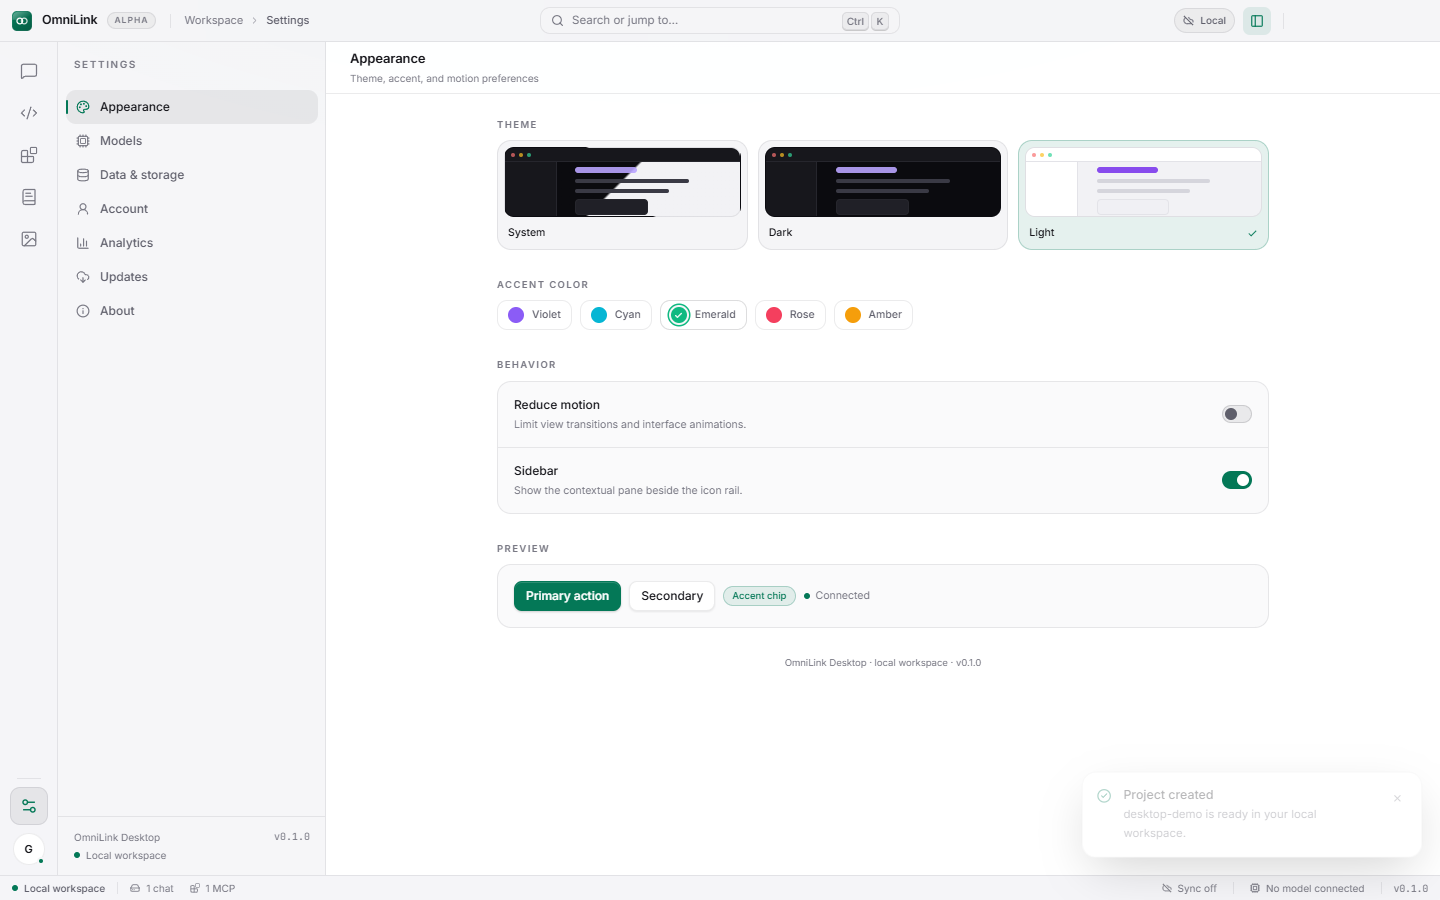
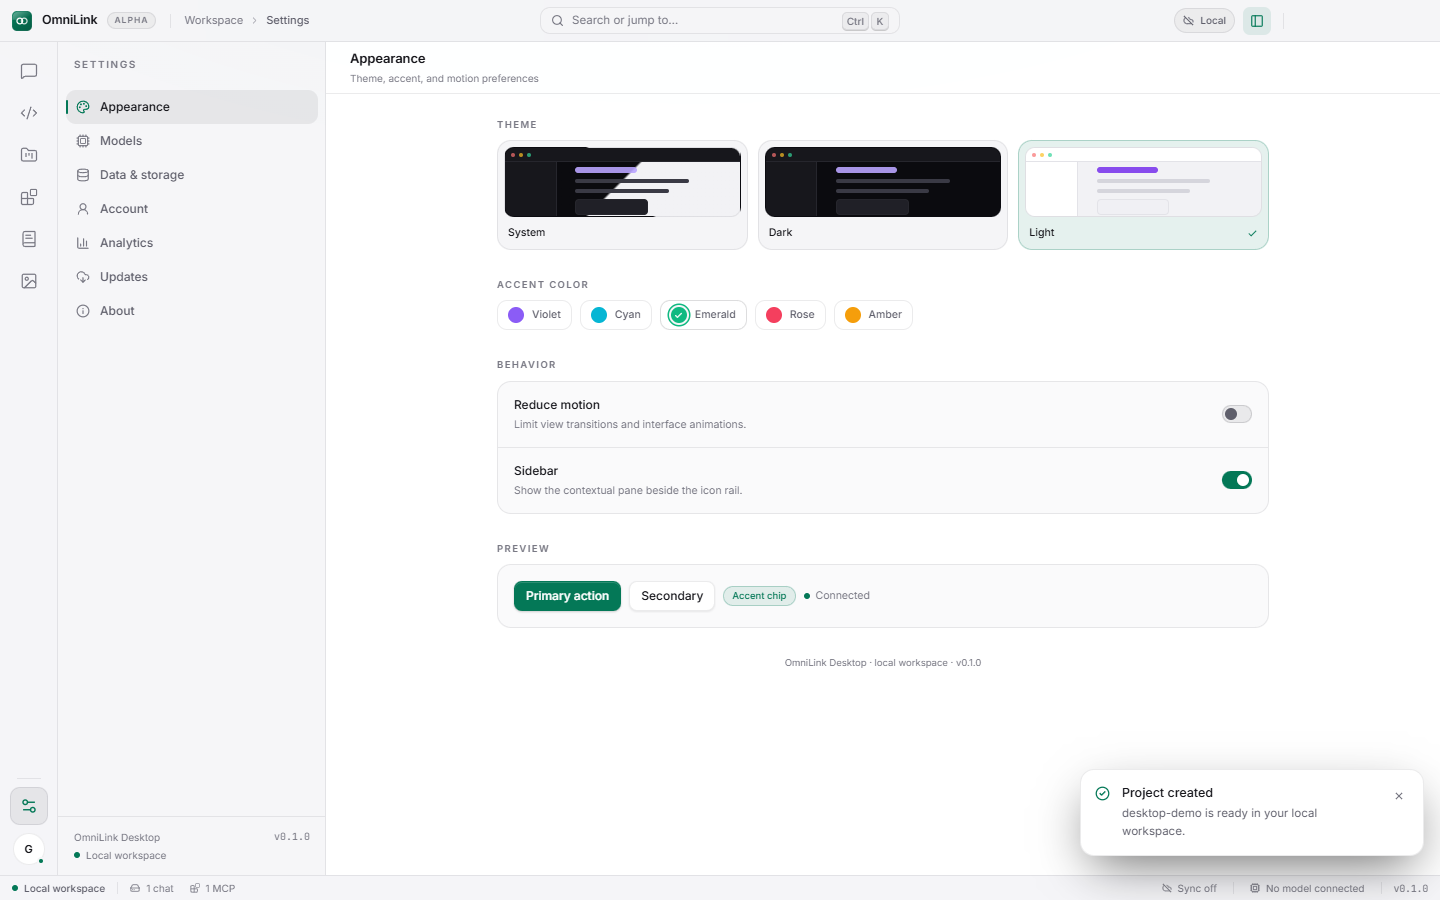
feat(desktop): Workspaces as separate sidebar section

Changed region(s): [[0.75, 0.8711, 1.0, 0.9956], [0.0, 0.2489, 0.0312, 0.28], [0.0, 0.1556, 0.0312, 0.1867]]

diff --git a/omnilink-desktop/src/views/WorkspacesView.tsx b/omnilink-desktop/src/views/WorkspacesView.tsx
@@ -1,0 +1,123 @@
+import { FolderKanban, Plus, Trash2 } from "lucide-react";
+import { useState } from "react";
+
+import { IconButton } from "@/components/ui/IconButton";
+import { useApp } from "@/store/app";
+
+export function WorkspacesView() {
+  const workspaces = useApp((state) => state.workspaces);
+  const projects = useApp((state) => state.projects);
+  const activeWorkspaceId = useApp((state) => state.activeWorkspaceId);
+  const addWorkspace = useApp((state) => state.addWorkspace);
+  const deleteWorkspace = useApp((state) => state.deleteWorkspace);
+  const setActiveWorkspace = useApp((state) => state.setActiveWorkspace);
+  const renameWorkspace = useApp((state) => state.renameWorkspace);
+  const pushToast = useApp((state) => state.pushToast);
+  const [name, setName] = useState("");
+
+  return (
+    <div className="flex h-full flex-col">
+      <div className="flex h-[52px] flex-none items-center gap-3 border-b border-line px-5">
+        <span className="flex h-7 w-7 flex-none items-center justify-center rounded-md border border-line bg-[var(--bg-elevated)] text-muted">
+          <FolderKanban size={14} />
+        </span>
+        <div className="min-w-0 flex-1">
+          <h1 className="text-[13px] font-semibold tracking-[-0.01em] text-fg">
+            Workspaces
+          </h1>
+          <p className="mt-0.5 text-[10px] text-subtle">
+            {workspaces.length} workspace{workspaces.length === 1 ? "" : "s"}
+          </p>
+        </div>
+        <div className="flex items-center gap-2">
+          <input
+            value={name}
+            onChange={(event) => setName(event.target.value)}
+            placeholder="New workspace name"
+            className="field h-8 w-44 text-[11px]"
+          />
+          <button
+            type="button"
+            onClick={() => {
+              if (!name.trim()) return;
+              addWorkspace(name.trim());
+              setName("");
+              pushToast({ title: "Workspace created", tone: "success" });
+            }}
+            className="btn btn-primary h-8 text-[10.5px]"
+          >
+            <Plus size={13} />
+            Create
+          </button>
+        </div>
+      </div>
+
+      <div className="scroll-thin min-h-0 flex-1 overflow-y-auto px-5 py-4">
+        <div className="grid grid-cols-1 gap-3 sm:grid-cols-2">
+          {workspaces.map((workspace) => {
+            const count = projects.filter(
+              (p) => (p.workspaceId ?? "default") === workspace.id,
+            ).length;
+            const active = workspace.id === activeWorkspaceId;
+            return (
+              <div
+                key={workspace.id}
+                className={`rounded-xl border p-4 transition-colors ${
+                  active
+                    ? "border-[var(--accent-border)] bg-[var(--accent-softer)]"
+                    : "border-line bg-[var(--bg-surface)]"
+                }`}
+              >
+                <div className="flex items-center justify-between gap-2">
+                  <h2 className="truncate text-[13px] font-semibold text-fg">
+                    {workspace.name}
+                  </h2>
+                  {workspace.id !== "default" && (
+                    <IconButton
+                      label="Delete workspace"
+                      onClick={() => {
+                        deleteWorkspace(workspace.id);
+                        pushToast({ title: "Workspace deleted" });
+                      }}
+                      className="h-6 w-6 hover:text-danger"
+                    >
+                      <Trash2 size={12} />
+                    </IconButton>
+                  )}
+                </div>
+                <p className="mt-1 text-[10.5px] text-subtle">
+                  {count} project{count === 1 ? "" : "s"}
+                </p>
+                <div className="mt-3 flex items-center gap-2">
+                  <button
+                    type="button"
+                    onClick={() => {
+                      setActiveWorkspace(workspace.id);
+                      pushToast({
+                        title: `Switched to ${workspace.name}`,
+                        tone: "success",
+                      });
+                    }}
+                    className="btn h-7 text-[10.5px]"
+                  >
+                    {active ? "Active" : "Switch"}
+                  </button>
+                  <button
+                    type="button"
+                    onClick={() => {
+                      const newName = window.prompt("Rename workspace", workspace.name);
+                      if (newName) renameWorkspace(workspace.id, newName);
+                    }}
+                    className="btn btn-ghost h-7 text-[10.5px]"
+                  >
+                    Rename
+                  </button>
+                </div>
+              </div>
+            );
+          })}
+        </div>
+      </div>
+    </div>
+  );
+}

diff --git a/omnilink-desktop/src/components/shell/ContextPane.tsx b/omnilink-desktop/src/components/shell/ContextPane.tsx
@@ -4,6 +4,7 @@ import {
   BookText,
   Database,
   DownloadCloud,
+  FolderKanban,
   HardDrive,
   Info,
   Palette,
@@ -623,6 +624,37 @@ function AssetsPane() {
   );
 }
 
+function WorkspacesPane() {
+  const workspaces = useApp((state) => state.workspaces);
+  const activeWorkspaceId = useApp((state) => state.activeWorkspaceId);
+  const setActiveWorkspace = useApp((state) => state.setActiveWorkspace);
+  return (
+    <>
+      <PaneHeader title="Workspaces" count={workspaces.length} />
+      <div className="scroll-thin min-h-0 flex-1 overflow-y-auto px-2 pb-2 pt-1">
+        {workspaces.map((workspace) => {
+          const active = workspace.id === activeWorkspaceId;
+          return (
+            <button
+              key={workspace.id}
+              type="button"
+              onClick={() => setActiveWorkspace(workspace.id)}
+              className={cn(
+                "flex w-full items-center gap-2.5 rounded-lg px-2.5 py-2 text-left transition-colors hover:bg-[var(--bg-hover)]",
+                active && "bg-[var(--bg-active)]",
+              )}
+            >
+              <FolderKanban size={13} className="flex-none text-muted" />
+              <span className="min-w-0 flex-1 truncate text-[12px] font-medium text-fg">
+                {workspace.name}
+              </span>
+            </button>
+          );
+        })}
+      </div>
+    </>
+  );
+}
 export function ContextPane() {
   const section = useApp((state) => state.section);
 
@@ -639,6 +671,7 @@ export function ContextPane() {
         >
           {section === "chat" && <ChatPane />}
           {section === "coding" && <CodingPane />}
+          {section === "workspaces" && <WorkspacesPane />}
           {section === "mcp" && <McpPane />}
           {section === "prompts" && <PromptsPane />}
           {section === "assets" && <AssetsPane />}

diff --git a/omnilink-desktop/src/App.tsx b/omnilink-desktop/src/App.tsx
@@ -17,6 +17,7 @@ import { CodingView } from "@/views/CodingView";
 import { McpView } from "@/views/McpView";
 import { PromptsView } from "@/views/PromptsView";
 import { SettingsView } from "@/views/SettingsView";
+import { WorkspacesView } from "@/views/WorkspacesView";
 
 function isTypingTarget(target: EventTarget | null) {
   if (!(target instanceof HTMLElement)) return false;
@@ -103,6 +104,7 @@ export default function App() {
         "3": () => state.setSection("mcp"),
         "4": () => state.setSection("prompts"),
         "5": () => state.setSection("assets"),
+        "6": () => state.setSection("workspaces"),
       };
       const navigate = digits[key];
       if (navigate) {
@@ -148,6 +150,7 @@ export default function App() {
               >
                 {section === "chat" && <ChatView />}
                 {section === "coding" && <CodingView />}
+                {section === "workspaces" && <WorkspacesView />}
                 {section === "mcp" && <McpView />}
                 {section === "prompts" && <PromptsView />}
                 {section === "assets" && <AssetsView />}

diff --git a/omnilink-desktop/src/components/shell/Rail.tsx b/omnilink-desktop/src/components/shell/Rail.tsx
@@ -3,6 +3,7 @@ import {
   Blocks,
   BookText,
   Code2,
+  FolderKanban,
   Image,
   MessageSquare,
   Settings2,
@@ -22,6 +23,7 @@ interface NavItem {
 const primaryNav: NavItem[] = [
   { id: "chat", label: "Chat", icon: MessageSquare, shortcut: "Ctrl 1" },
   { id: "coding", label: "Coding", icon: Code2, shortcut: "Ctrl 2" },
+  { id: "workspaces", label: "Workspaces", icon: FolderKanban, shortcut: "Ctrl 6" },
   { id: "mcp", label: "MCP", icon: Blocks, shortcut: "Ctrl 3" },
   { id: "prompts", label: "Prompts", icon: BookText, shortcut: "Ctrl 4" },
   { id: "assets", label: "Assets", icon: Image, shortcut: "Ctrl 5" },

diff --git a/omnilink-desktop/src/store/app.ts b/omnilink-desktop/src/store/app.ts
@@ -110,6 +110,7 @@ interface AppState {
   addWorkspace: (name: string) => string;
   deleteWorkspace: (id: string) => void;
   setActiveWorkspace: (id: string | null) => void;
+  renameWorkspace: (id: string, name: string) => void;
 
   addMcpServer: (server: {
     name: string;

diff --git a/omnilink-desktop/src/types.ts b/omnilink-desktop/src/types.ts
@@ -1,4 +1,4 @@
-export type Section = "chat" | "coding" | "mcp" | "prompts" | "assets" | "settings";
+export type Section = "chat" | "coding" | "workspaces" | "mcp" | "prompts" | "assets" | "settings";
 
 export type ThemeMode = "dark" | "light" | "system";
 

diff --git a/omnilink-desktop/src/components/shell/TitleBar.tsx b/omnilink-desktop/src/components/shell/TitleBar.tsx
@@ -15,6 +15,7 @@ import type { Section } from "@/types";
 const sectionNames: Record<Section, string> = {
   chat: "Chat",
   coding: "Coding",
+  workspaces: "Workspaces",
   mcp: "MCP",
   prompts: "Prompts",
   assets: "Assets",
